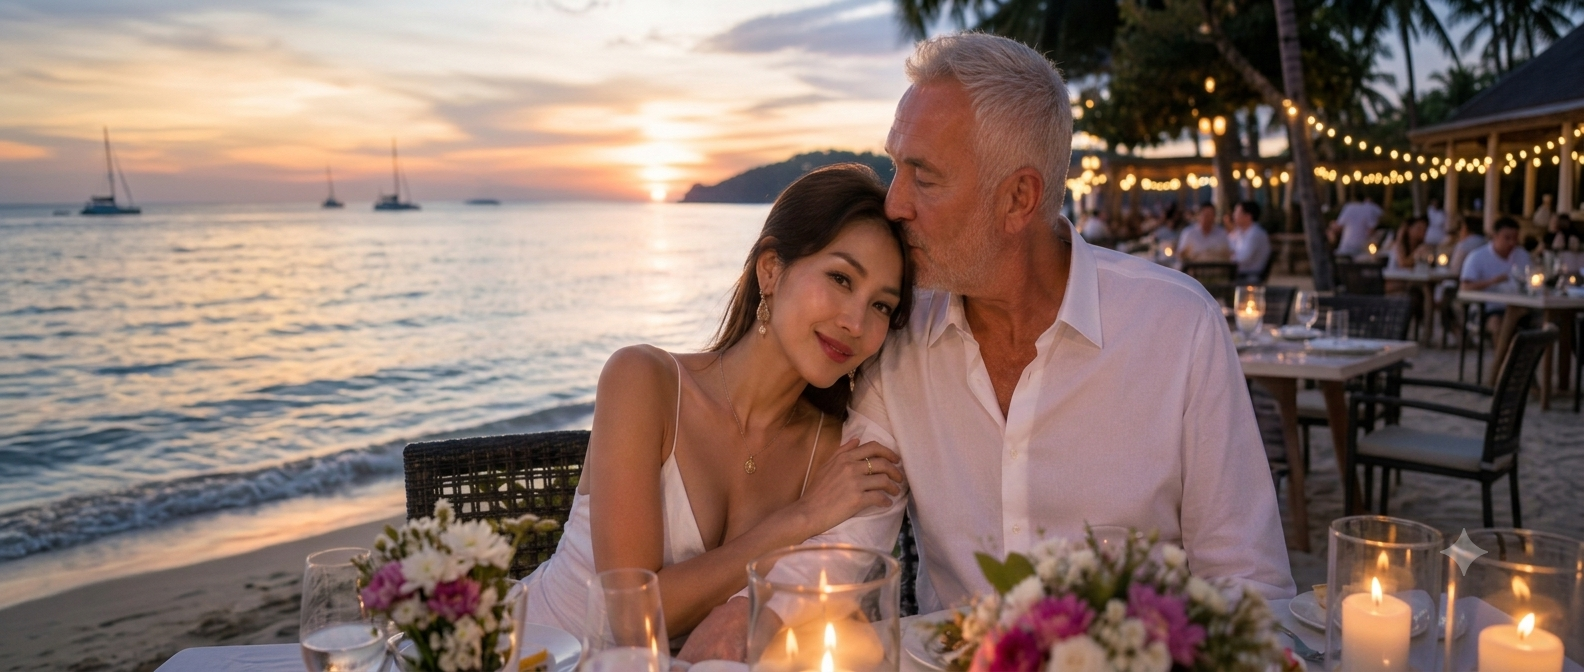
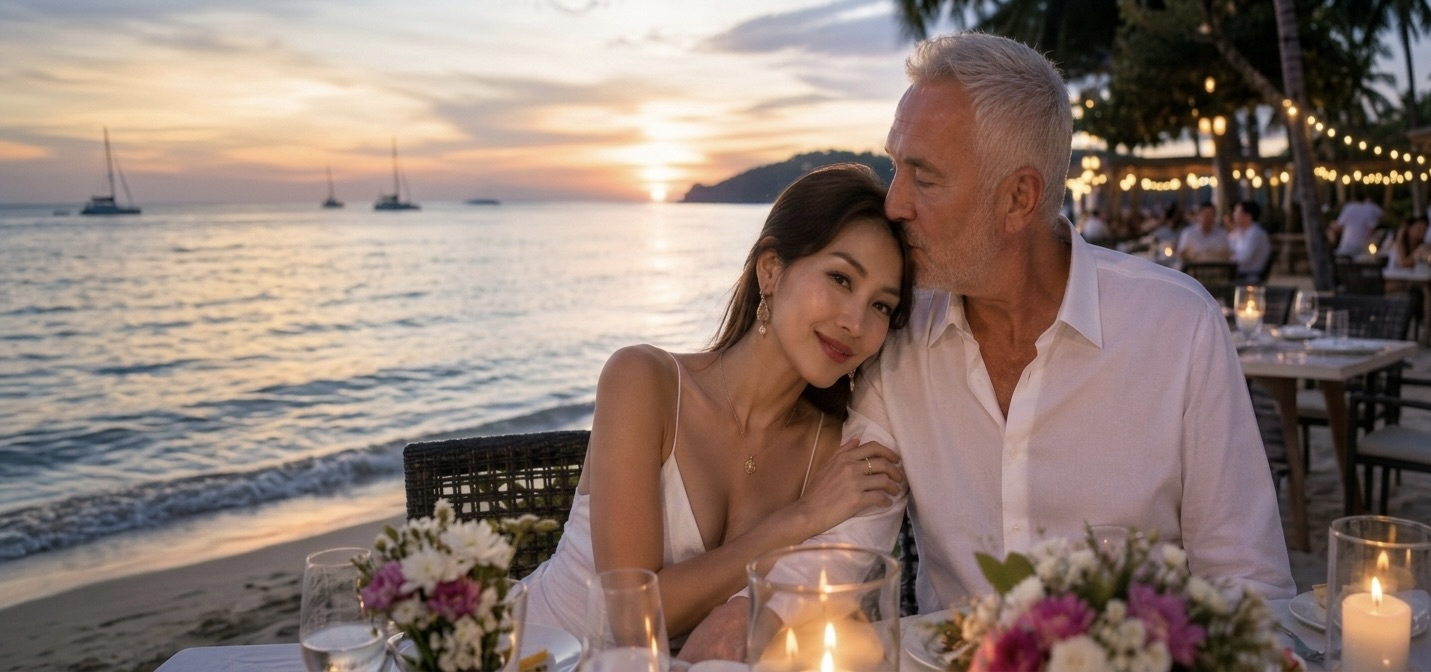
done landing

diff --git a/app/page.tsx b/app/page.tsx
@@ -3,7 +3,7 @@
 import Link from "next/link"
 import Image from "next/image"
 import { Button } from "@/components/ui/button"
-import { APP_NAME, APP_TAGLINE } from "@/constants"
+import { APP_NAME, APP_SECONDARY_TAGLINE, APP_TAGLINE } from "@/constants"
 import { AppName } from "@/components/app-name"
 import { UserGallery } from "@/components/user-gallery"
 import { Faq } from "@/components/faq"
@@ -13,8 +13,8 @@ export default function HomePage() {
   return (
     <main>
       <section
-        className="relative flex h-[80vh] min-h-[500px] flex-col justify-center bg-cover bg-center text-white"
-        style={{ backgroundImage: "url(/home-landing.png)" }}
+        // Show mobile background on small screens and desktop background on medium screens and up
+        className="relative flex h-[80vh] min-h-[500px] flex-col justify-center bg-[url('/home-landing-mobile.png')] bg-cover bg-center text-white md:bg-[url('/home-landing.png')]"
       >
         <div className="absolute inset-0 bg-black/20" />
         <div className="relative mx-auto w-full max-w-7xl px-4 sm:px-6 lg:px-8">
@@ -28,13 +28,12 @@ export default function HomePage() {
             />
             <AppName className="text-3xl font-bold sm:text-4xl md:text-5xl" />
             <div className="space-y-2">
-              <p className="text-lg text-white/90 md:text-xl">{APP_TAGLINE}</p>
+              <p className="text-lg font-bold text-white/90 md:text-xl">
+                <span className="text-gradient">{APP_TAGLINE}</span>
+              </p>
 
               <p className="text-lg font-bold md:text-xl">
-                <span className="text-gradient">
-                  Real People. Real Relationships. Personally Matched in
-                  Thailand.
-                </span>
+                <span className="text-gradient">{APP_SECONDARY_TAGLINE}</span>
               </p>
             </div>
             <div className="flex flex-wrap justify-center gap-4">